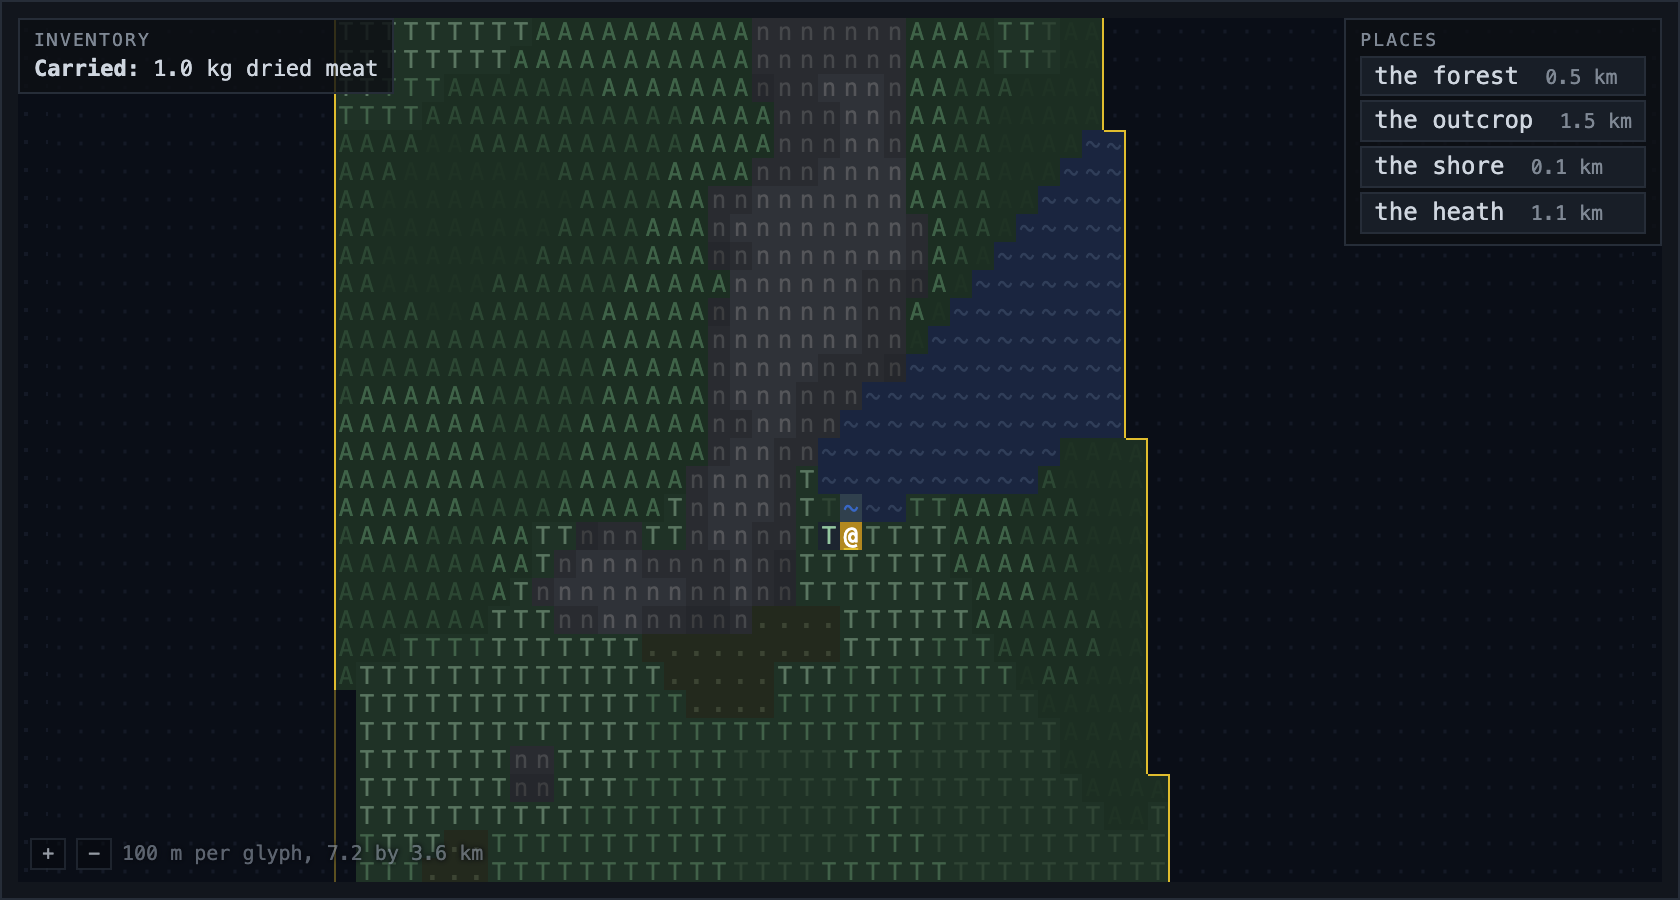
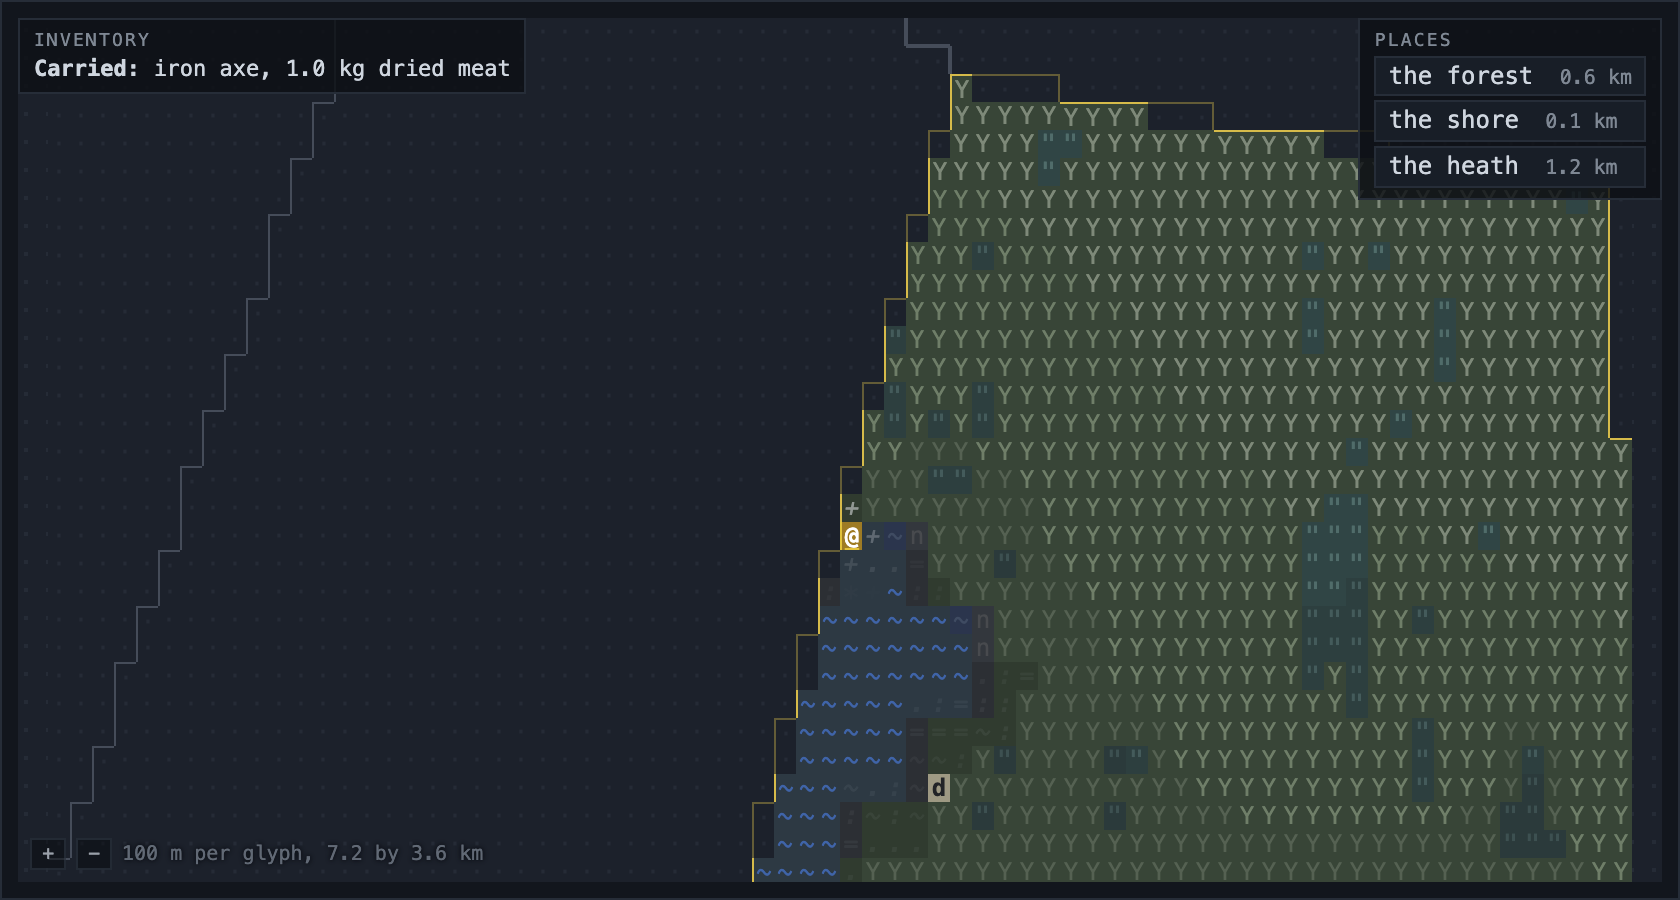
docs(survidle): photograph the close rungs on the solved world
The after pair is retaken on the merged world, and the reach captures join it.
Two things the harness had to learn: a field note pauses the clock and a fresh
landing raises several, so the wait for game minute 10 answers them as they
arrive; and a named Chrome profile keeps the solve in IndexedDB instead of
paying for it again.

diff --git a/08-survidle/docs/close-zoom-simulation-shots/README.md b/08-survidle/docs/close-zoom-simulation-shots/README.md
@@ -1,7 +1,9 @@
 # Close zoom simulation comparison
 
 These images compare the old cosmetic close zooms with the authoritative
-50 m simulation that replaces them.
+50 m simulation that replaces them. The after pair now stands on the solved
+world main brought in: 300 m arrays of height, water and discharge, refined
+into 50 m chunks, so the close ground has rivers and real shores in it.
 
 ## Fixed scene
 
@@ -10,30 +12,37 @@ These images compare the old cosmetic close zooms with the authoritative
 - Game minute: 10
 - Old-world player position: x 1068.5, y 312.5
 - Old-world region: 2914
-- New-world player position: x 373075 m, y 140175 m
-- New-world region: 4345
+- New-world player position: x 63325 m, y 613775 m
+- New-world region: 18849
 - Browser viewport: 1440 by 900 CSS pixels
 - Capture scale: 2
 - Baseline commit: `56942580`
-- After commit: `d9ed2087`
+- After commit: `c342e7b0`
 
 The baseline was reached through the normal landing controls. The capture
-harness selected the first offered survivor, landed, closed the welcome and
-goal overlays, used the real zoom controls, and waited for game minute 10.
-It did not assign terrain, player position, weather, visibility, map markup,
-CSS, or simulation state.
+harness selected the first offered survivor, landed, closed the welcome, field
+note and goal overlays, used the real zoom controls, and waited for game
+minute 10. It did not assign terrain, player position, weather, visibility, map
+markup, CSS, or simulation state. Field notes pause the clock, so the harness
+answers them as they arrive; that is the only way the minute passes at all.
 
 `before-scene.json` and `after-scene.json` record the browser-observed scene
-facts. Regenerate the after pair with `npm run dev` in one shell and
-`node scripts/close-zoom-shots.mjs` in another; `SHOTS_URL`, `SHOTS_PORT` and
-`CHROME_PATH` override the defaults.
+facts. Regenerate the after pair with `npm run dev -- --port 5199 --strictPort`
+in one shell and `SHOTS_URL=http://127.0.0.1:5199/prototypes/08/ node
+scripts/close-zoom-shots.mjs` in another; `SHOTS_URL`, `SHOTS_PORT`,
+`SHOTS_PROFILE` and `CHROME_PATH` override the defaults. `SHOTS_PROFILE` names
+a Chrome profile to keep, so the world's solve is read from that profile's
+IndexedDB instead of being paid again.
 
 ## Images
 
 - `before-100m.png`: the old 100 m cosmetic details nested inside 300 m cells.
 - `before-50m.png`: the old 50 m cosmetic details nested inside 300 m cells.
-- `after-100m.png`: the real 100 m aggregate view.
-- `after-50m.png`: the real 50 m patch view.
+- `after-100m.png`: the real 100 m aggregate view on the solved world.
+- `after-50m.png`: the real 50 m patch view on the solved world.
+- `reach-50m.png`, `reach-100m.png`, `reach-300m.png`: seed 42's river reach at
+  the three closest rungs (see below).
+- `reach-50m-reload.png`: the closest of those again after a page reload.
 
 The after images use the same seed, start day, game minute, viewport, landing
 flow, and zoom controls. World coordinates and region ids differ because the
@@ -51,16 +60,41 @@ the same block repeats its own parent colour behind every detail letter. The
 shoreline gains no detail, and the survivor's `@` has moved inside a cell it
 never left.
 
-Both after images are built from real 50 m patches. Ground changes from one
-glyph to the next: a bog (`n`) runs into birch (`A`) and spruce and pine
-(`T`), and the water (`~`) has a stepped, coherent shore rather than a
-rectangle. The 50 m image is the 100 m image at twice the scale - the same
-shore, bog and forest, each drawn with twice the detail and no repeated nested
-parent blocks. The survivor's `@` marker is visible in the same ground in both,
-and both carry their own zoom label: `100 m per glyph, 7.2 by 3.6 km` and
-`50 m per glyph, 3.6 by 1.8 km`.
+Both after images are built from real 50 m patches of the solved world. Ground
+changes from one glyph to the next: birch (`Y`) stands with bog (`"`) and rock
+(`n`) through it, and the water (`~`) has a stepped, coherent shore that runs
+diagonally across the board rather than a rectangle edge. The region outline
+steps patch by patch along that ground rather than along 300 m cells. The 50 m
+image is the 100 m image at twice the scale - the same shore and the same
+stand, each drawn with twice the detail and no repeated nested parent blocks -
+and at that rung the shore band itself breaks up into its own patches. The
+survivor's `@` is on the shore in both, and both carry their own zoom label:
+`100 m per glyph, 7.2 by 3.6 km` and `50 m per glyph, 3.6 by 1.8 km`.
 
 Both after images are 1680 by 900 pixels, captured from the same `#map` box at
 the same scale. The before pair is 1680 by 812: the map panel is the same width
 and position, and is taller now because the close rungs draw the full 72 by 36
 board instead of a handful of cells. Nothing else about the capture differs.
+
+## The river reach, seed 42
+
+Seed 42 has no river within 150 km of its landing, so the reach the terrain
+report names - the solved cell at 715, 2160 - can only be seen by standing
+somebody on it. `scripts/close-zoom-reach-shots.mjs` does that through the
+application's own development doors (`window.survidle.placeAtPatch`, which runs
+the ordinary region change and viewshed, and `window.survidle.reveal`, the same
+mark the sight pass makes), then presses the real zoom buttons. It needs the
+dev server, because those doors exist only in a development build.
+`reach-scene.json` records what each capture read.
+
+- `reach-50m.png`: pine forest with a chain of ford marks (`#`) one patch wide
+  running north to south past the `@`, river glyphs (`=`) above and below it,
+  bog (`"`) patches at the water's edge, and lakes whose edges step patch by
+  patch rather than along 300 m lines.
+- `reach-100m.png`: the same reach at two patches per glyph. The channel still
+  reads as a line, not a block, and the revealed ground ends in fog because the
+  survivor has read 2 km around them and no more.
+- `reach-300m.png`: one glyph per solved cell. The channel survives as single
+  glyphs, and the region outlines run on across the fog.
+- `reach-50m-reload.png`: byte for byte the same file as `reach-50m.png`. A
+  chunk that refined differently on the second load would differ here.
